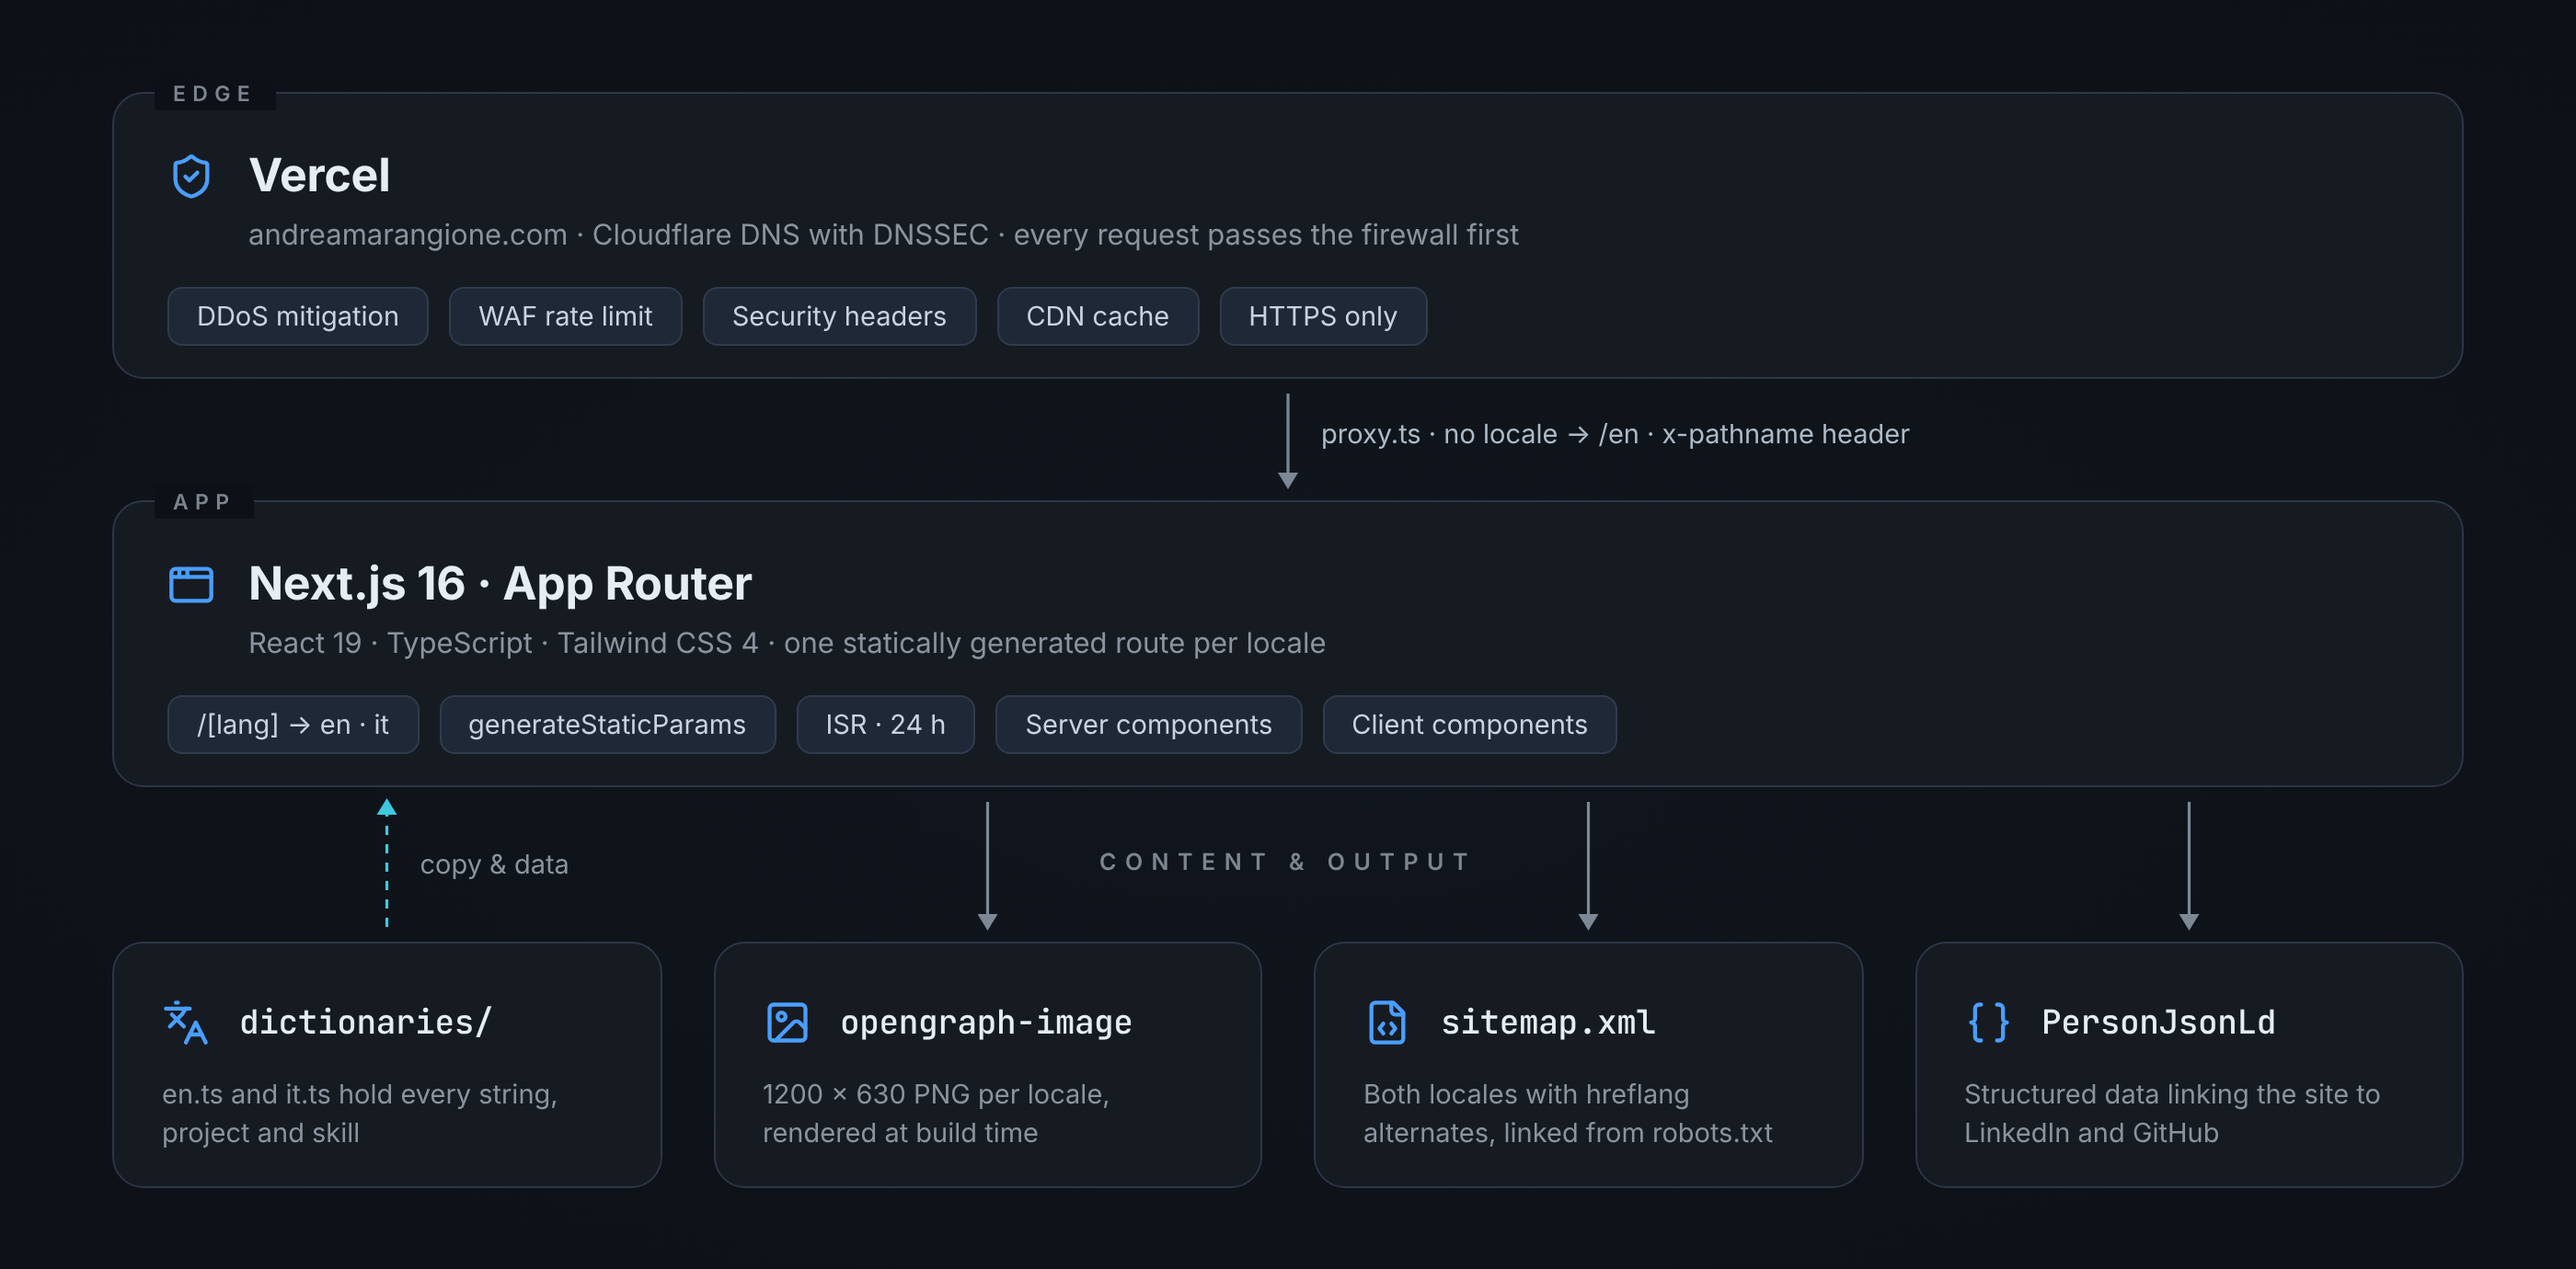
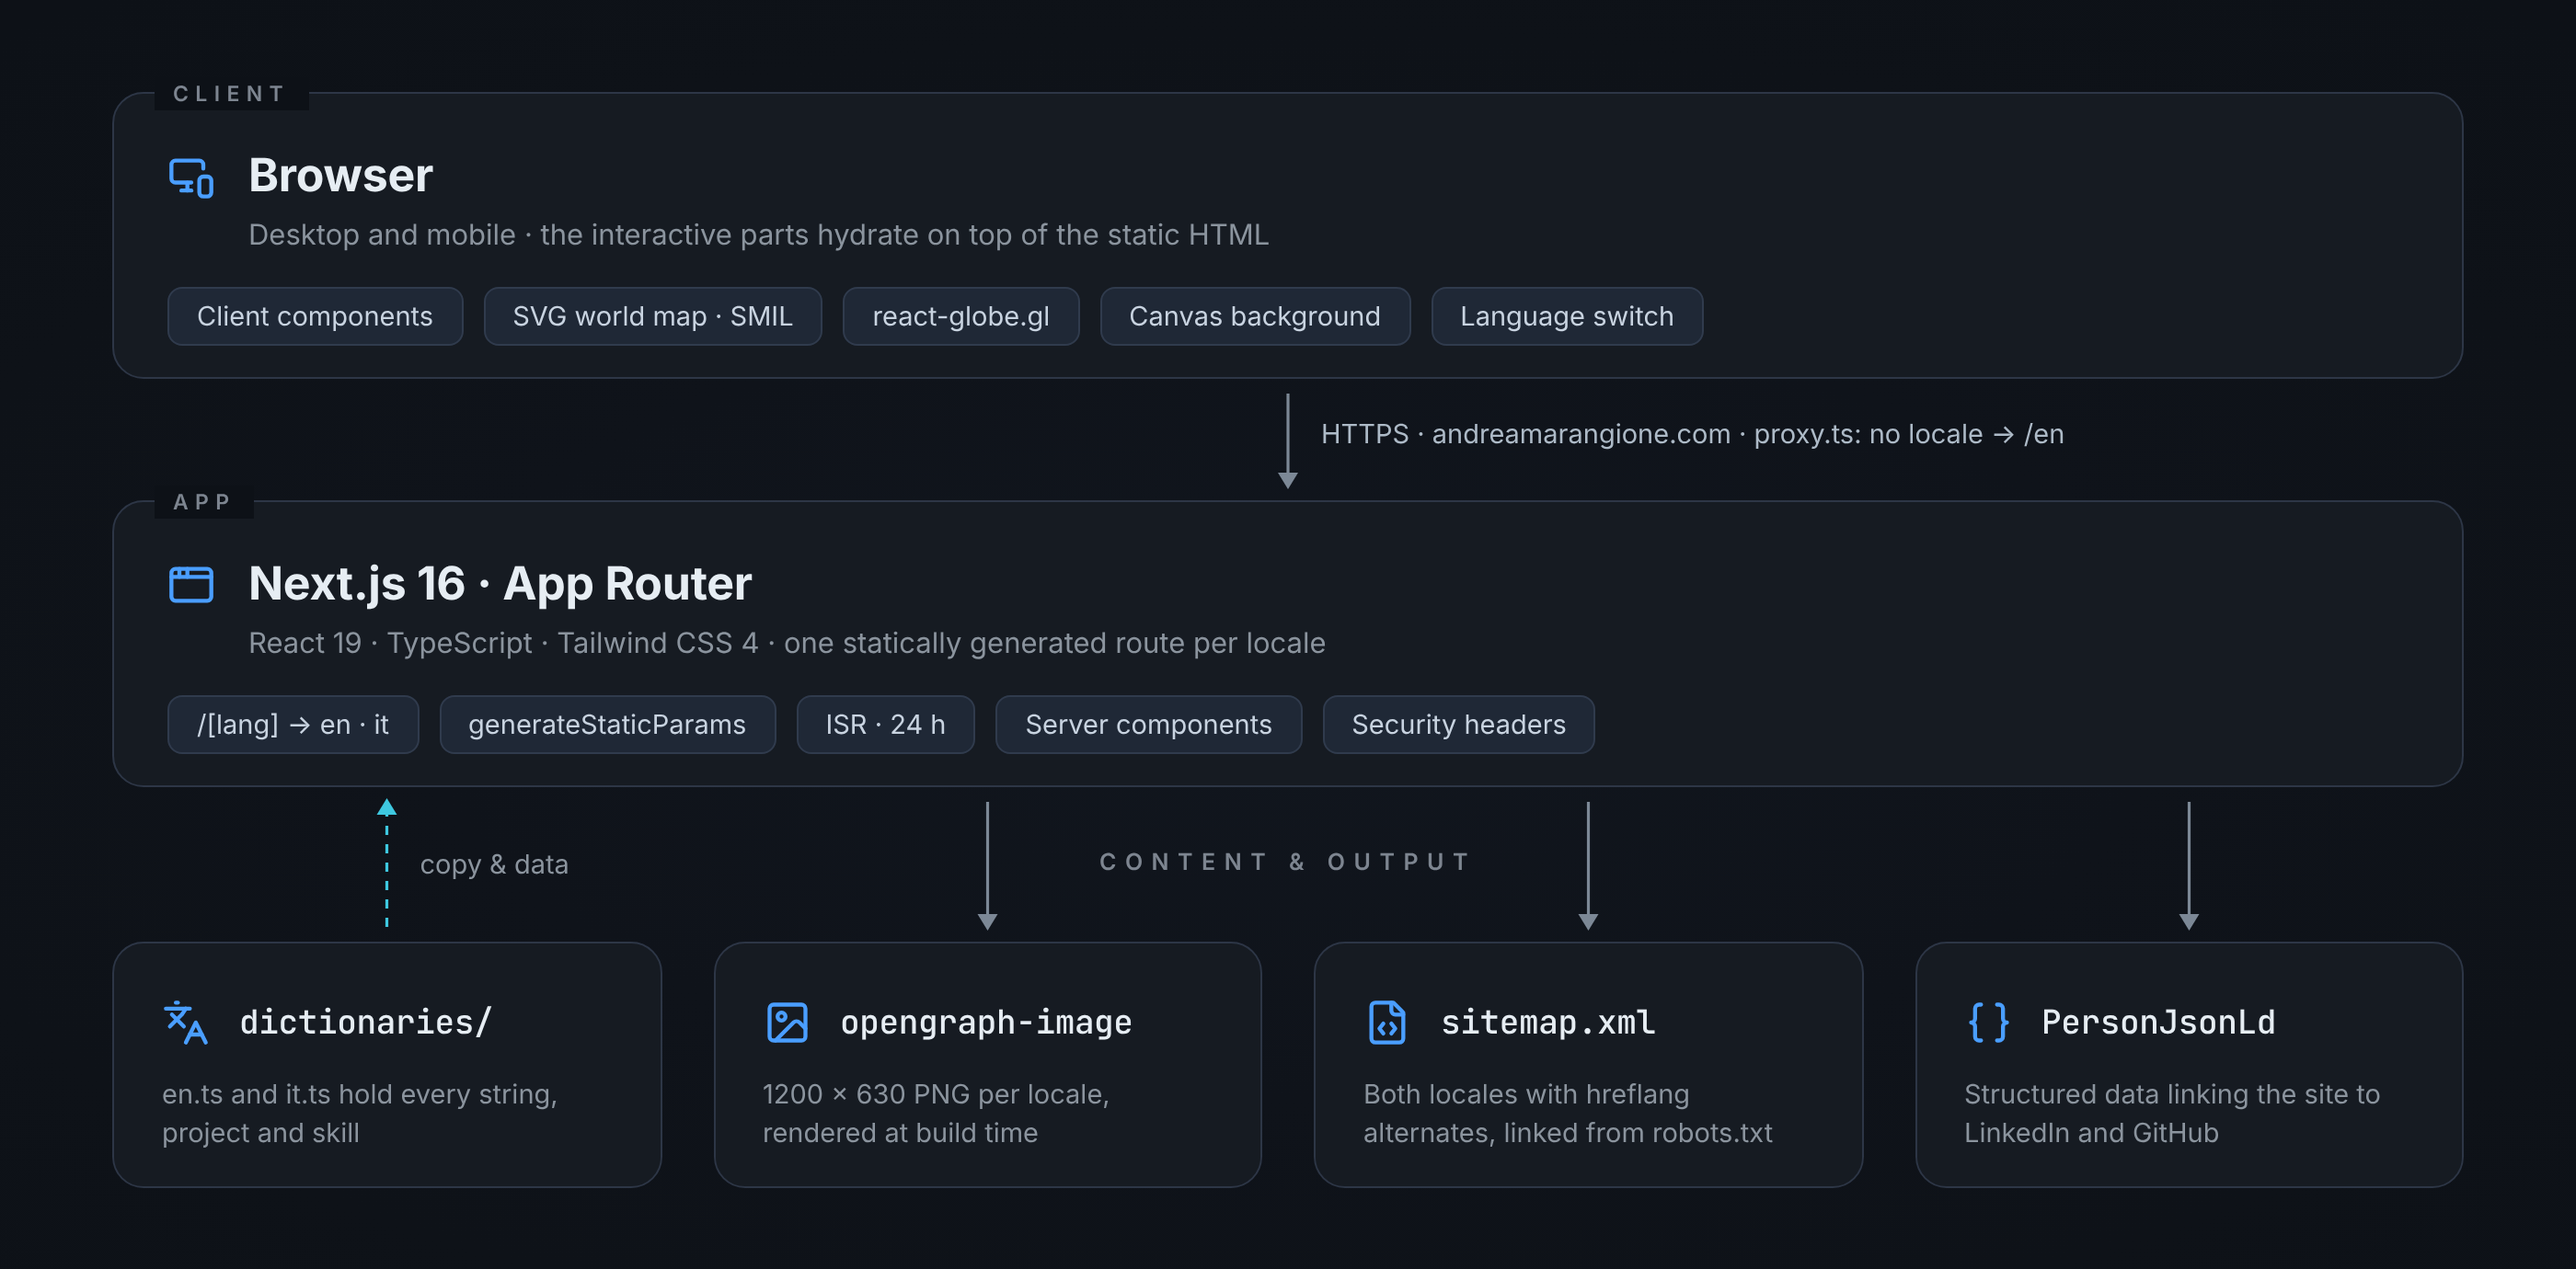
readme

diff --git a/README.md b/README.md
@@ -12,7 +12,6 @@ bilingual Next.js site styled after an Ubuntu desktop.
 ![TypeScript](https://img.shields.io/badge/TypeScript-3178C6?style=flat-square&logo=typescript&logoColor=white)
 ![Tailwind CSS](https://img.shields.io/badge/Tailwind%20CSS%204-06B6D4?style=flat-square&logo=tailwindcss&logoColor=white)
 ![Node.js](https://img.shields.io/badge/Node.js%2024-339933?style=flat-square&logo=nodedotjs&logoColor=white)
-![Vercel](https://img.shields.io/badge/Vercel-000000?style=flat-square&logo=vercel&logoColor=white)
 
 [**andreamarangione.com**](https://andreamarangione.com)
 
@@ -21,21 +20,6 @@ bilingual Next.js site styled after an Ubuntu desktop.
 > [!NOTE]
 > The site is bilingual. Every page exists in English (`/en`) and Italian
 > (`/it`), and any address without a language prefix redirects to `/en`.
-
----
-
-## What it is
-
-Industrial automation is hard to put in a portfolio. The code belongs to the
-customer, the plants sit behind a fence on the other side of the world, and a
-PLC program means little to anyone who has never stood next to the machine it
-drives.
-
-This site shows what can be shown: where the work happened, what the plants
-produce and how their lines are built, the tools used along the way, and how
-to get in touch. The interface borrows from the places that work actually
-happens in — an Ubuntu desktop with terminal and editor windows, an operator
-panel, a live P&ID and, when something goes wrong, ladder logic.
 
 ---
 
